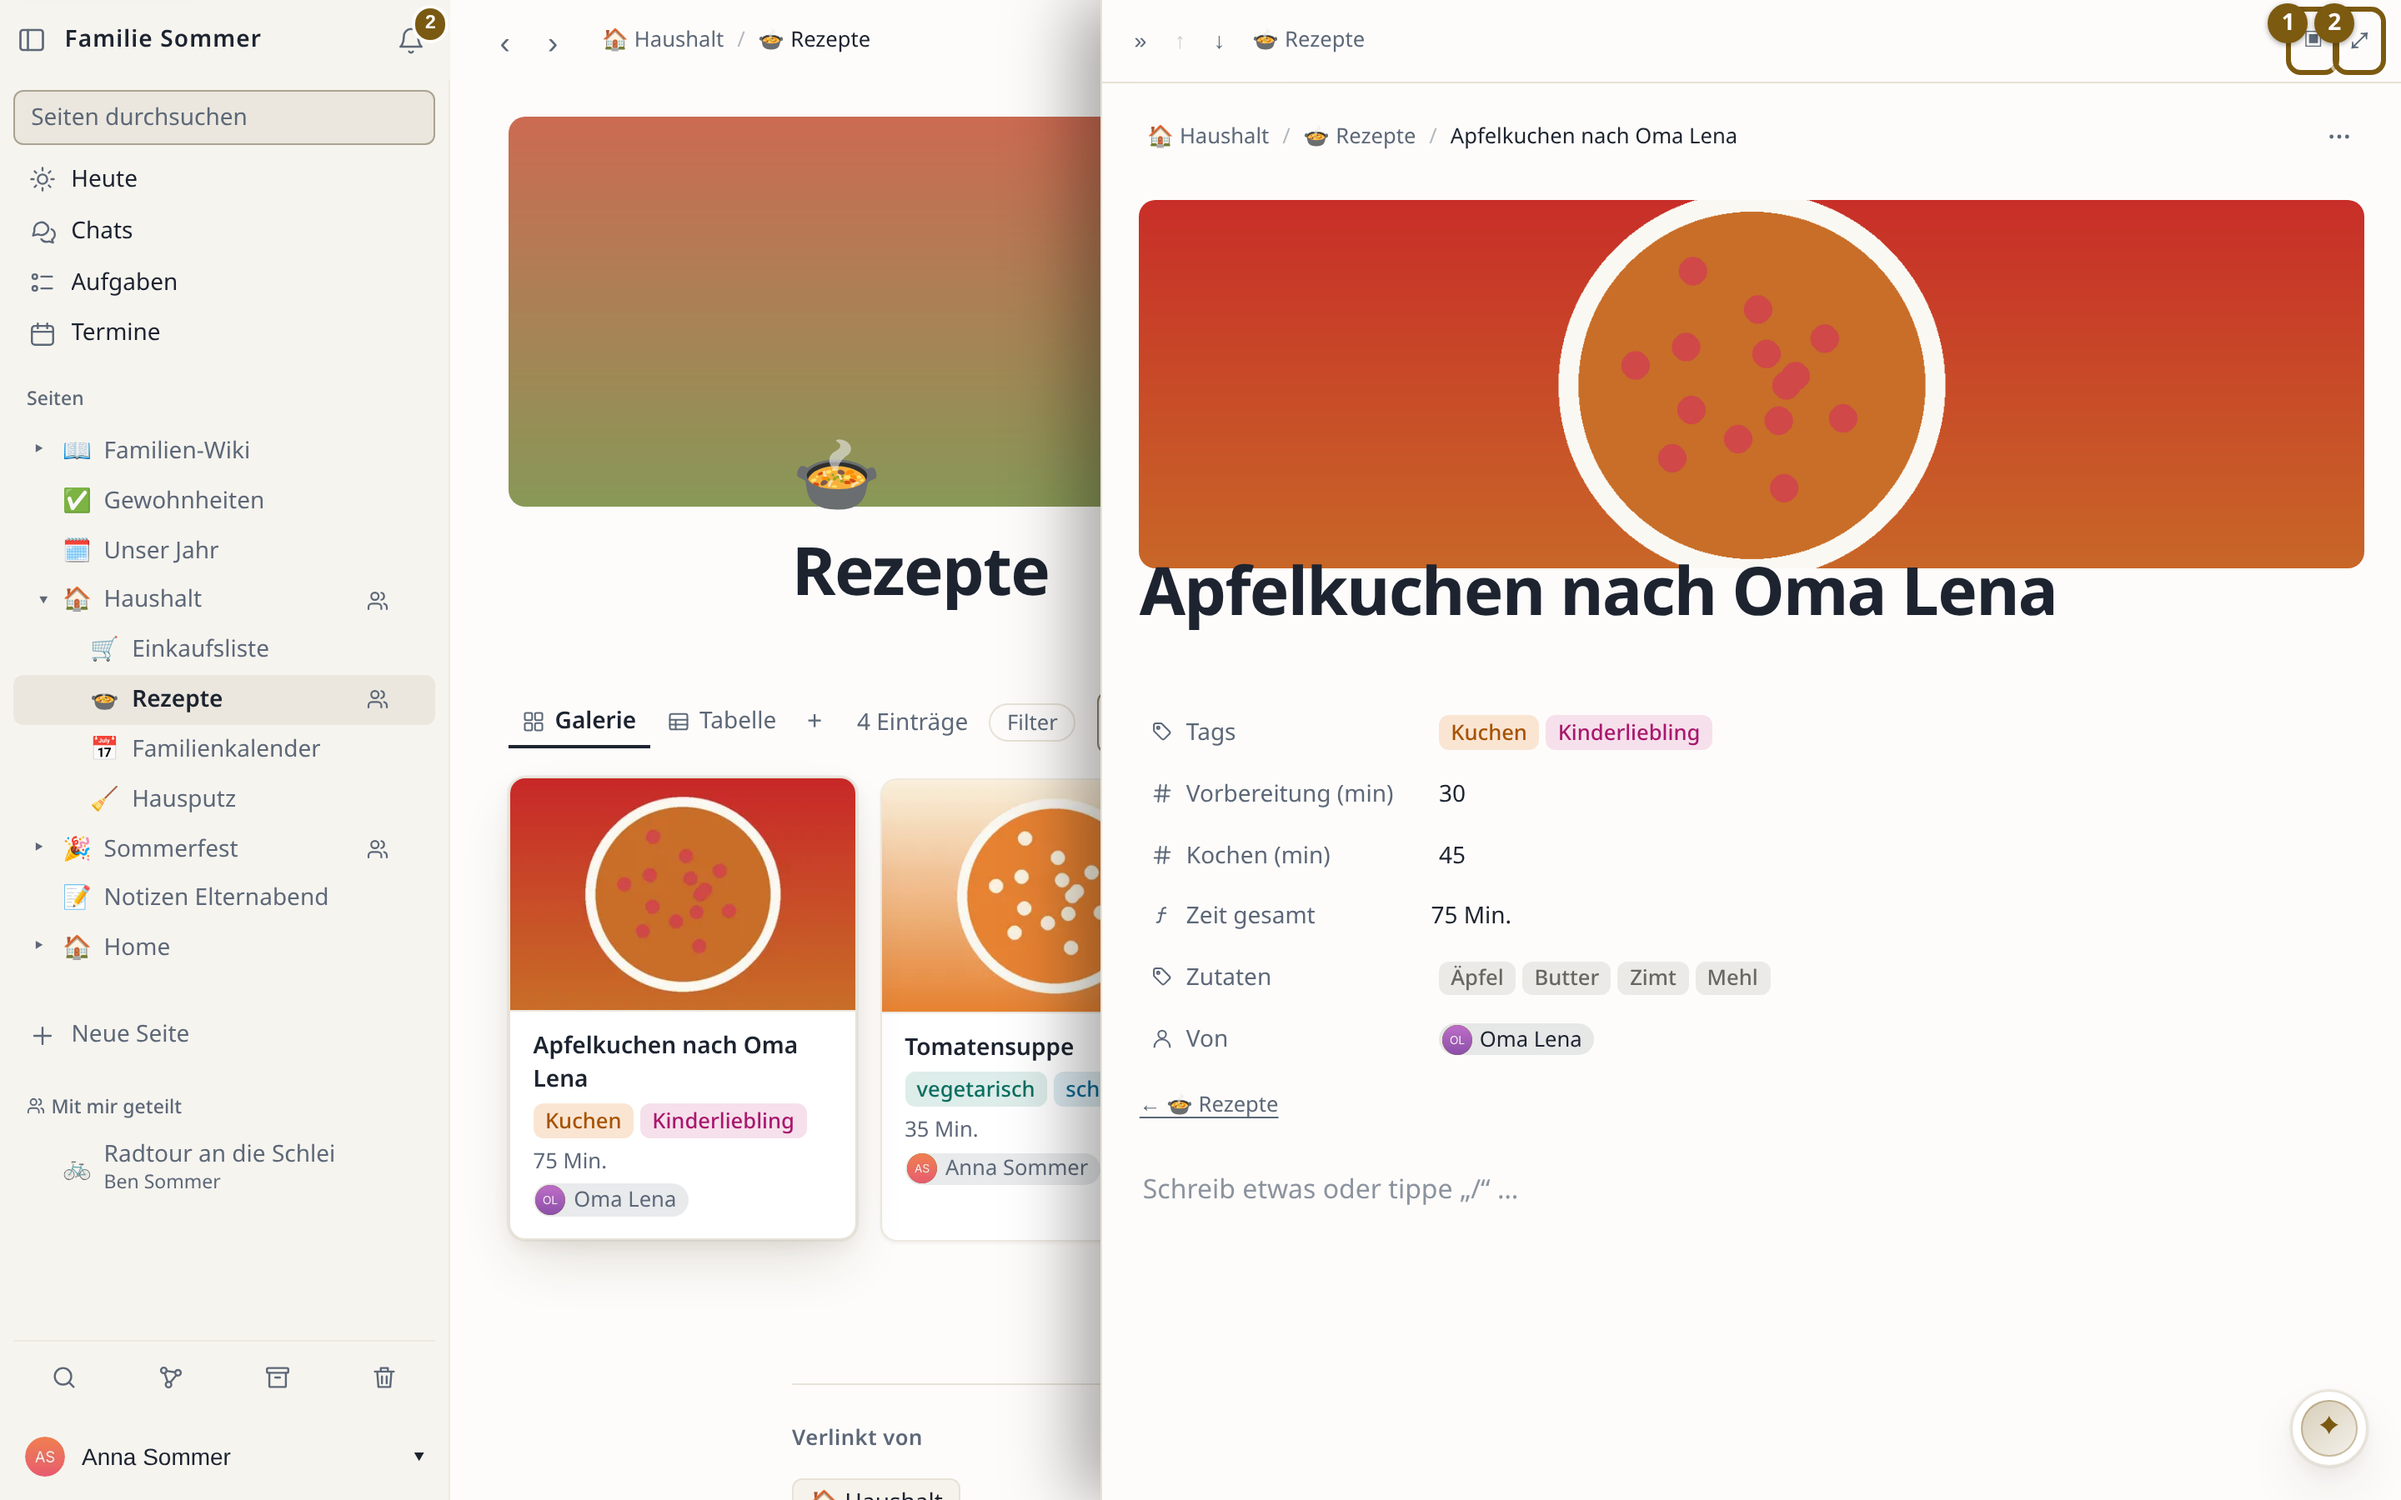
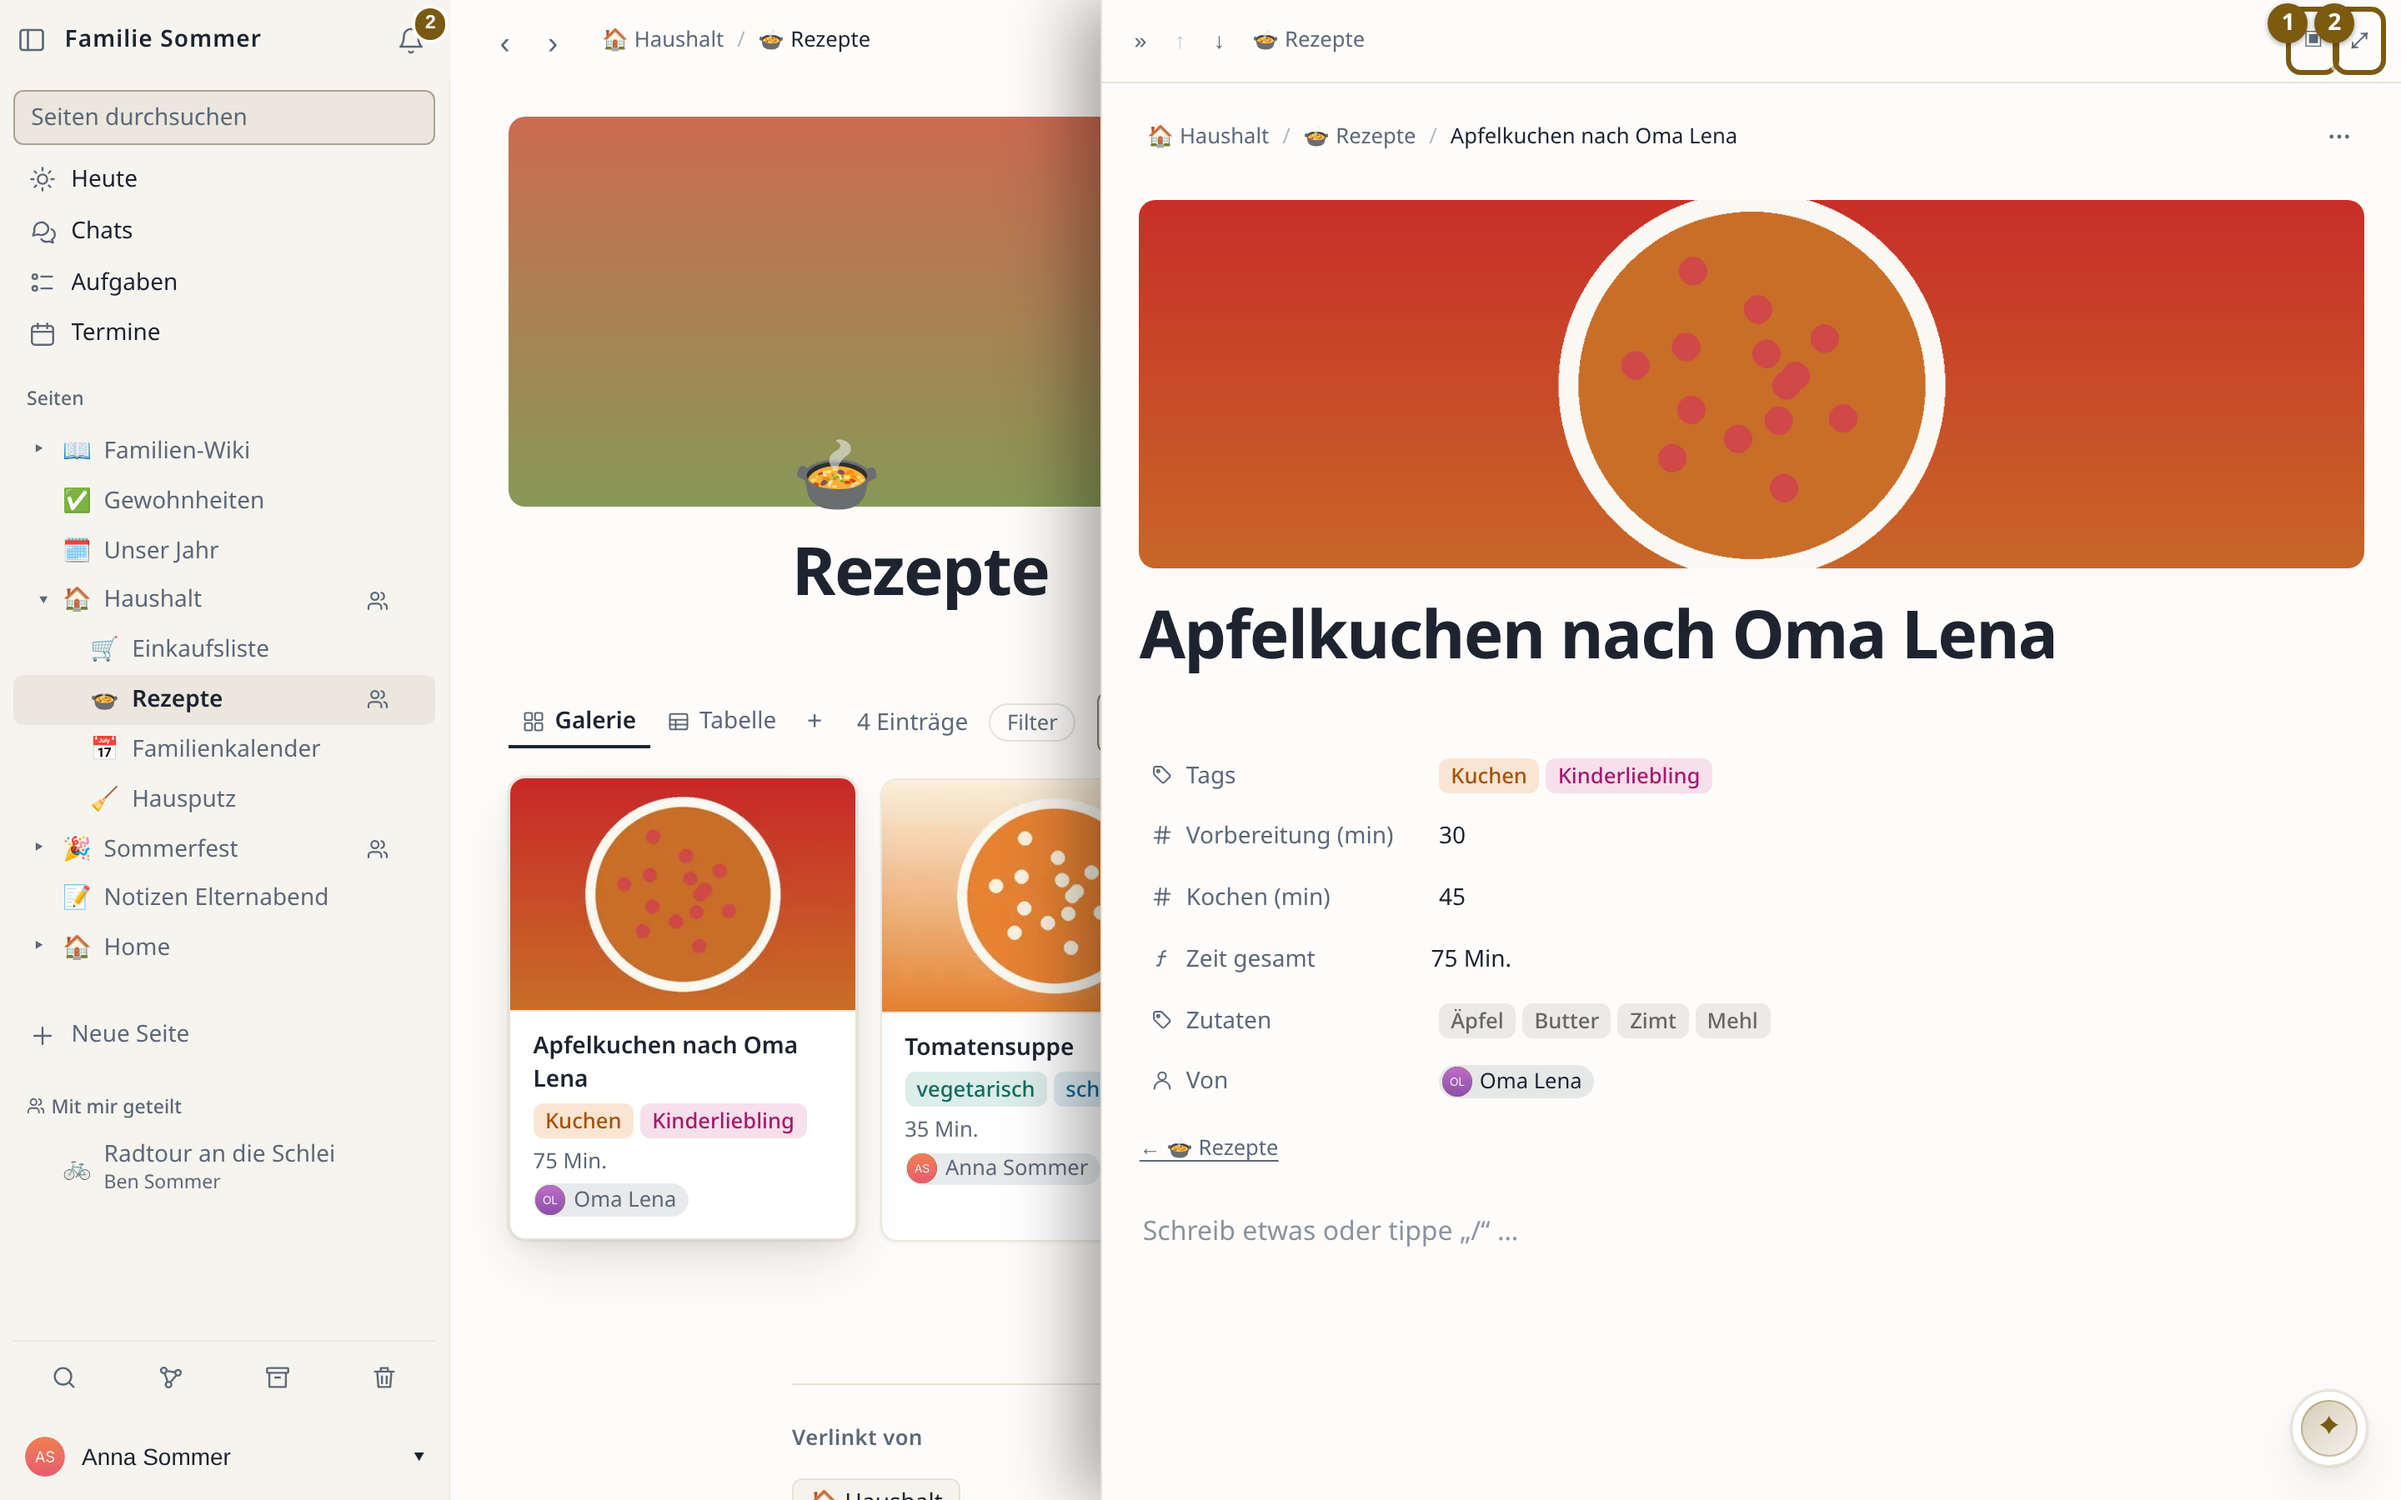
Handbuch-Bilder nach 2253/2256: b07-09 (Peek, Titel unter dem Titelbild), b09-03 (Konflikt-Leiste sichtbar), b15-03 (Bens Rezeptfrage wie im Kapitel); BILDER.md, CHANGELOG (Bugs-DB 2249)
Voller Durchgang aller Handbuch-Bilder auf dem neuen Stand, Pixelvergleich gegen die eingecheckten Bilder: nur b07-09 zeigt
ein Titelbild ohne Icon; uebrige Abweichungen sind Laufrauschen. Die drei Bilder je zweimal aufgenommen, identisch.

Claude-Session: https://claude.ai/code/session_01Tj78KQgcmaLytMkg5xCLAG

diff --git a/tools/screens-handbuch.py b/tools/screens-handbuch.py
@@ -12,7 +12,7 @@ cloud.saga.example, bookorbit.example, wetter.saga.example, ki.saga.example) zei
 tools/handbuch-fakes/fakes.py leitet Port 80 weiter. In der Welt familie startet die Szene b11 verein.example als zweiten
 Server (eigene DB, wird am Ende geloescht) fuer die Foederations-Bilder. Szenen mit Art "server+tls" laufen ueber https
 (Zertifikat der Test-CA, Passkeys, Foederation), "server+suche" mit SearXNG-Attrappe (tools/handbuch-stack.sh). Alle
-Web-Bilder aus BILDER.md haben eine Szene; b09-03 wartet auf eine Korrektur in Saga (BILDER.md, Durchgang 5).
+Web-Bilder aus BILDER.md haben eine Szene.
 Desktop 1440x900 Faktor 2, Handy 390x844 Faktor 3; Nummern im Bild (①②③) = Legende in BILDER.md. Nur erfundene Inhalte,
 gezeichnete Bilder, Kamera als gezeichnetes Ersatzbild; keine Wiederherstellungsschluessel/-codes im Bild.
 Szenen w-* = Bilder der Projektseite (ohne Nummern, --nur w-), danach tools/website-bilder.py <HB_OUT>."""

diff --git a/docs/handbuch/bilder/BILDER.md b/docs/handbuch/bilder/BILDER.md
@@ -156,7 +156,7 @@ tools/handbuch-stack.sh                              # alle bekannten Bilder
 | b14-03-glocke-handy.png | B14 | Handy | dunkel | Glocke auf dem Handy (dunkel, Liste von unten) | – |
 | b15-01-ki-seite.png | B15 | Web | hell | Frage Saga KI (Attrappe ki.saga.example): Antwort zum „Sommerfest“ mit Verweisen [2] auf die Seite „Sommerfest“; Quellen: zitierte zuerst, darunter blasser die übrigen durchsuchten Seiten | 1 = Bereiche: Frag deine Seiten · Diese Seite; 2 = Verweis auf die Quelle; 3 = Quellen |
 | b15-02-ki-websuche.png | B15 | Web | hell | KI mit Websuche auf „Heute“: Wetter am Wochenende an der Lübecker Bucht, Web-Quellen wetter.example.org / kueste.example.org (SearXNG-Attrappe), Adresse der KI ki.saga.example | 1 = Im Web suchen; 2 = Web-Quelle |
-| b15-03-ki-chat.png | B15 | Web | hell | KI im Familienchat auf Zuruf (`@Saga KI`, Attrappe) – Antwort für alle sichtbar | – |
+| b15-03-ki-chat.png | B15 | Web | hell | KI im Familienchat auf Zuruf: Ben fragt „`@Saga KI` – was ist ein gutes Rezept für 8 Personen ohne Fleisch?“ (Attrappe), Annas Sicht – Antwort für alle sichtbar, „gefragt von Ben Sommer“ | – |
 | b16-01-kalender-verbinden.png | B16 | Web | hell | Einstellungen → Kalender: Familienkalender verbunden, zweiten Kalender (CalDAV) hinzufügen | 1 = verbundener Kalender „Familie“; 2 = Adresse des CalDAV-Servers (Passwort: App-Passwort, hier leer) |
 | b16-02-immich.png | B16 | Web | hell | Bild aus Immich: Album „Ostsee 2026“ (Attrappe fotos.saga.example, gezeichnete Fotos), Foto wählen → wird in die Seite kopiert | 1 = Alben; 2 = gewähltes Album; 3 = Foto anklicken |
 | b16-03-nextcloud-datei.png | B16 | Web | hell | Nextcloud-Datei als Verweis in „Ferienwohnung Möwe“: Karte mit Vorschau, Herunterladen, In Nextcloud öffnen (Attrappe cloud.saga.example) | – |
@@ -202,7 +202,9 @@ tools/handbuch-stack.sh                              # alle bekannten Bilder
 - b14-02: Abschnitt „Dieser Browser“ zeigt „kann keine Mitteilungen empfangen (oder Saga läuft nicht über https)“ – Demo
   läuft über http; auf einem echten Server steht dort der Schalter.
 - b15-02: Websuche über die SearXNG-Attrappe (Treffer wetter.example.org / kueste.example.org, Admin-Schalter
-  „Websuche erlauben“ nur in diesem Lauf an); b15-03 KI im Chat zeigt die Antwort mit rohen ** (siehe Design-Fund).
+  „Websuche erlauben“ nur in diesem Lauf an). b15-03: seit Durchgang 5 Bens Rezeptfrage wie im Kapitel; die Antwort der
+  Attrappe ist eine Liste ohne ** (der Design-Fund „Markdown roh im Chat“ besteht in Saga weiter, ist im Bild aber nicht
+  mehr zu sehen).
 - b16-02: Immich-Attrappe unter fotos.saga.example (Alben „Ostsee 2026“, „Sommerfest 2026“, „Garten“, gezeichnete Fotos);
   Anna verbindet ihr Immich nur für dieses Bild.
 - b12-06: Der Server holt Linkvorschauen nur von öffentlichen Adressen. Die Testumgebung setzt dafür
@@ -276,7 +278,7 @@ tools/handbuch-stack.sh                              # alle bekannten Bilder
 - Föderation (b11, a07-01/03): zweiter Server verein.example im selben Lauf, verbunden über die Admin-Oberflächen
   (Einladungscode, Fingerprint, Bestätigen), dann echtes Teilen mit `anna-sommer@saga.example`.
 - b09-01: „Gleichzeitig bearbeiten live“ nur für dieses Bild an; Bens Markierung ist eine echte Textauswahl in seinem Browser.
-- Die Bilder vom 3.11., die hier noch standen, sind in Durchgang 5 neu (außer b09-03, siehe dort).
+- Die Bilder vom 3.11., die hier noch standen, sind in Durchgang 5 neu.
 
 
 ## Durchgang 5 (24.11.2026, Bilder vom 3.11. – Bugs-DB 2249)
@@ -300,8 +302,10 @@ tools/handbuch-stack.sh                              # alle bekannten Bilder
   Fehler ab (vorher still übersprungen). Die zweite Datenbank für verein.example heißt `<DB des Laufs>_verein_<hex>`
   (unter dem Präfix `UMG_DB`).
 - Wiederholbarkeit: alle Bilder dieses Durchgangs zweimal hintereinander aufgenommen und verglichen.
-- Offen – b09-03 (Konflikt) bleibt das Bild vom 3.11.: Die Szene steht im Skript und liefert die echte Server-Antwort
-  409, aber in Saga 2.5 liegt die Konflikt-Leiste unter der Kopfzeile der Seite (`.pg-conflict` hat noch
-  `position:sticky; top:4.6rem` aus der alten festen Kopfleiste und wird vor `.page-bar` eingefügt; beide `z-index:9`)
-  – Text und Knöpfe sind verdeckt. Nach der Korrektur in Saga: `tools/handbuch-stack.sh --nur b09-03`.
-- Nicht in diesem Durchgang: b07-09 (Peek) – kommt nach der Korrektur in Saga (Bugs-DB 2253).
+- Nachtrag (nach den Korrekturen in Saga, Bugs-DB 2253 und 2256): b09-03 neu – die Konflikt-Leiste klebt jetzt sichtbar
+  unter der Kopfleiste (vorher verdeckt: `.pg-conflict` hatte noch `top:4.6rem` aus der alten Kopfleiste); b07-09 neu – der
+  Titel einer Seite mit Titelbild ohne Icon steht unter dem Bild statt darin; b15-03 neu (Bens Rezeptfrage, siehe oben).
+- Prüfung auf 2253 (Titelbild ohne Icon): voller Durchgang aller Handbuch-Bilder (`--nur a,b`, 131 Bilder, 0 Fehler) und
+  Pixelvergleich gegen die eingecheckten Bilder. In der Demo hat nur das Rezept im Peek (b07-09) ein Titelbild ohne Icon;
+  alle anderen Abweichungen sind Folgen des vollen Laufs (Uhrzeiten, „vor … Minuten“, Glocken-Zahl, aufgeklappter
+  Seitenbaum, frühere Anrufe/Chats aus demselben Lauf) – diese Bilder bleiben, wie sie sind.

diff --git a/CHANGELOG.md b/CHANGELOG.md
@@ -90,8 +90,9 @@ Alle nennenswerten Änderungen an Saga. Versionen folgen [Semantic Versioning](h
   Wetter- und KI-Attrappe, einen zweiten Server für die Föderation und eigene Logs je Lauf (Bugs-DB 2244).
 - Die übrigen Bilder vom 3.11. sind neu: Anmeldung mit Passkey und zweitem Faktor sowie Föderation (A07, B11) über
   https, Auswahl-Leiste, synchronisierter Block, Widget einrichten, Filter, Formel, CSV- und Notion-Import,
-  Linkvorschau, KI-Websuche und Immich. Die Verweise der KI-Antwort in B15 passen zu ihren Quellen, die Glocke hat in
-  den Bildern eine eigene Nummer (der Zähler sah wie eine Markierung aus). Werkzeuge: Zusätze `tls` und `suche`,
+  Linkvorschau, KI-Websuche, KI im Chat (Bens Rezeptfrage wie im Text), Immich, Konflikt-Leiste und Peek (nach
+  2253/2256). Die Verweise der KI-Antwort in B15 passen zu ihren Quellen, die Glocke hat in den Bildern eine eigene
+  Nummer (der Zähler sah wie eine Markierung aus). Werkzeuge: Zusätze `tls` und `suche`,
   Attrappen für Immich, SearXNG und eine Webseite mit Linkvorschau; `--nur` meldet Namen ohne Szene (Bugs-DB 2249).
 
 ### Behoben – Anruf: Teilnehmerliste bei Handy quer verdeckt die Knöpfe nicht mehr (Bugs-DB 2196)
